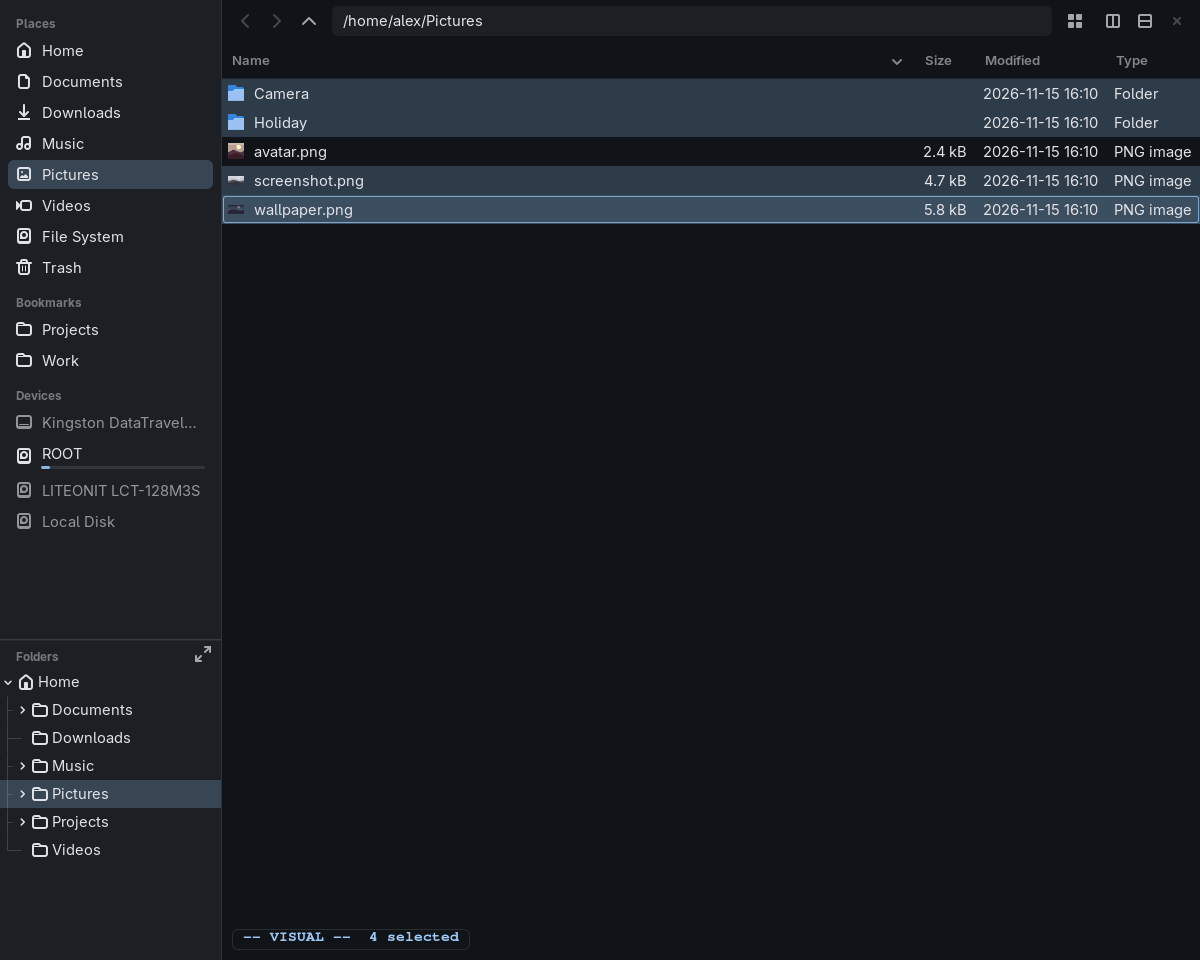
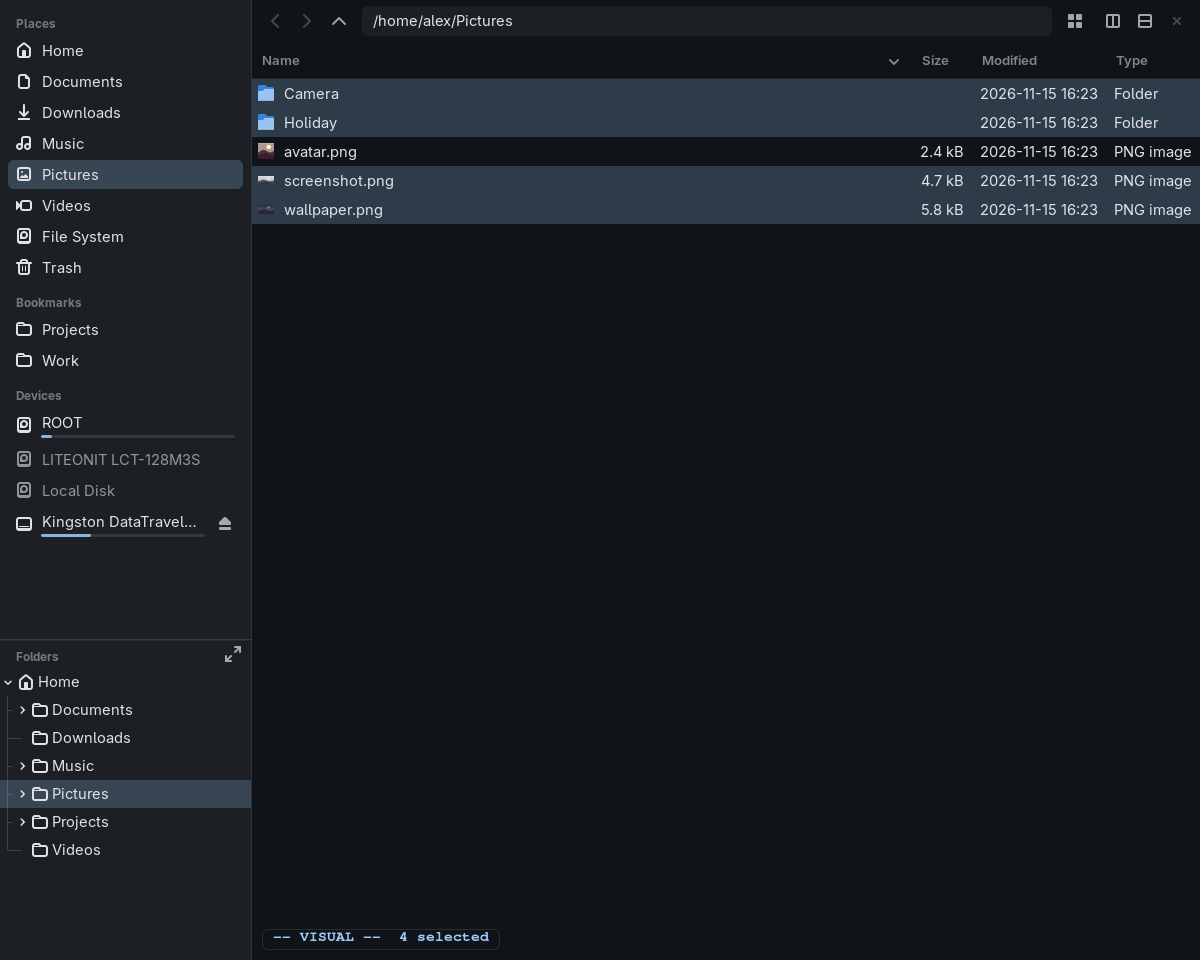
Sidebar: mounted disks first, then mountable disks, removable drives last

diff --git a/src/sidebar.c b/src/sidebar.c
@@ -365,11 +365,12 @@ static void add_usage_bar(GtkWidget* row, RowData* d)
     gtk_box_reorder_child(GTK_BOX(box), column, 1);
 }
 
-/* Removable drives first (flash drives, SD cards), then the mounted disks
- * (the system disk), then the disks that can be mounted; by name within. */
+/* Mounted disks (the system disk) first, then the disks that can be
+ * mounted, and at the end the removable drives (flash drives, SD cards);
+ * by name within. */
 static int device_group(const SfeDevice* dev)
 {
-    return dev->removable ? 0 : dev->mount_path != NULL ? 1 : 2;
+    return dev->removable ? 2 : dev->mount_path != NULL ? 0 : 1;
 }
 
 static int compare_devices(gconstpointer a, gconstpointer b)

diff --git a/docs/guide/index.md b/docs/guide/index.md
@@ -294,9 +294,9 @@ boxes can be changed directly.
 ## Drives
 
 Drives appear in the sidebar under *Devices*, named by their label or else
-by the drive's vendor and model: removable drives (flash drives, SD cards)
-first, then mounted disks such as the system disk, then disks that can be
-mounted. Mounted drives, the system disk included,
+by the drive's vendor and model: mounted disks such as the system disk
+first, then disks that can be mounted, then removable drives (flash drives,
+SD cards). Mounted drives, the system disk included,
 have a thin bar under the name showing how full they are (red above 90%);
 hover for the numbers ("94.1 GB used of 2.0 TB (5%) · 1.9 TB free") as well
 as the size, filesystem and device.
